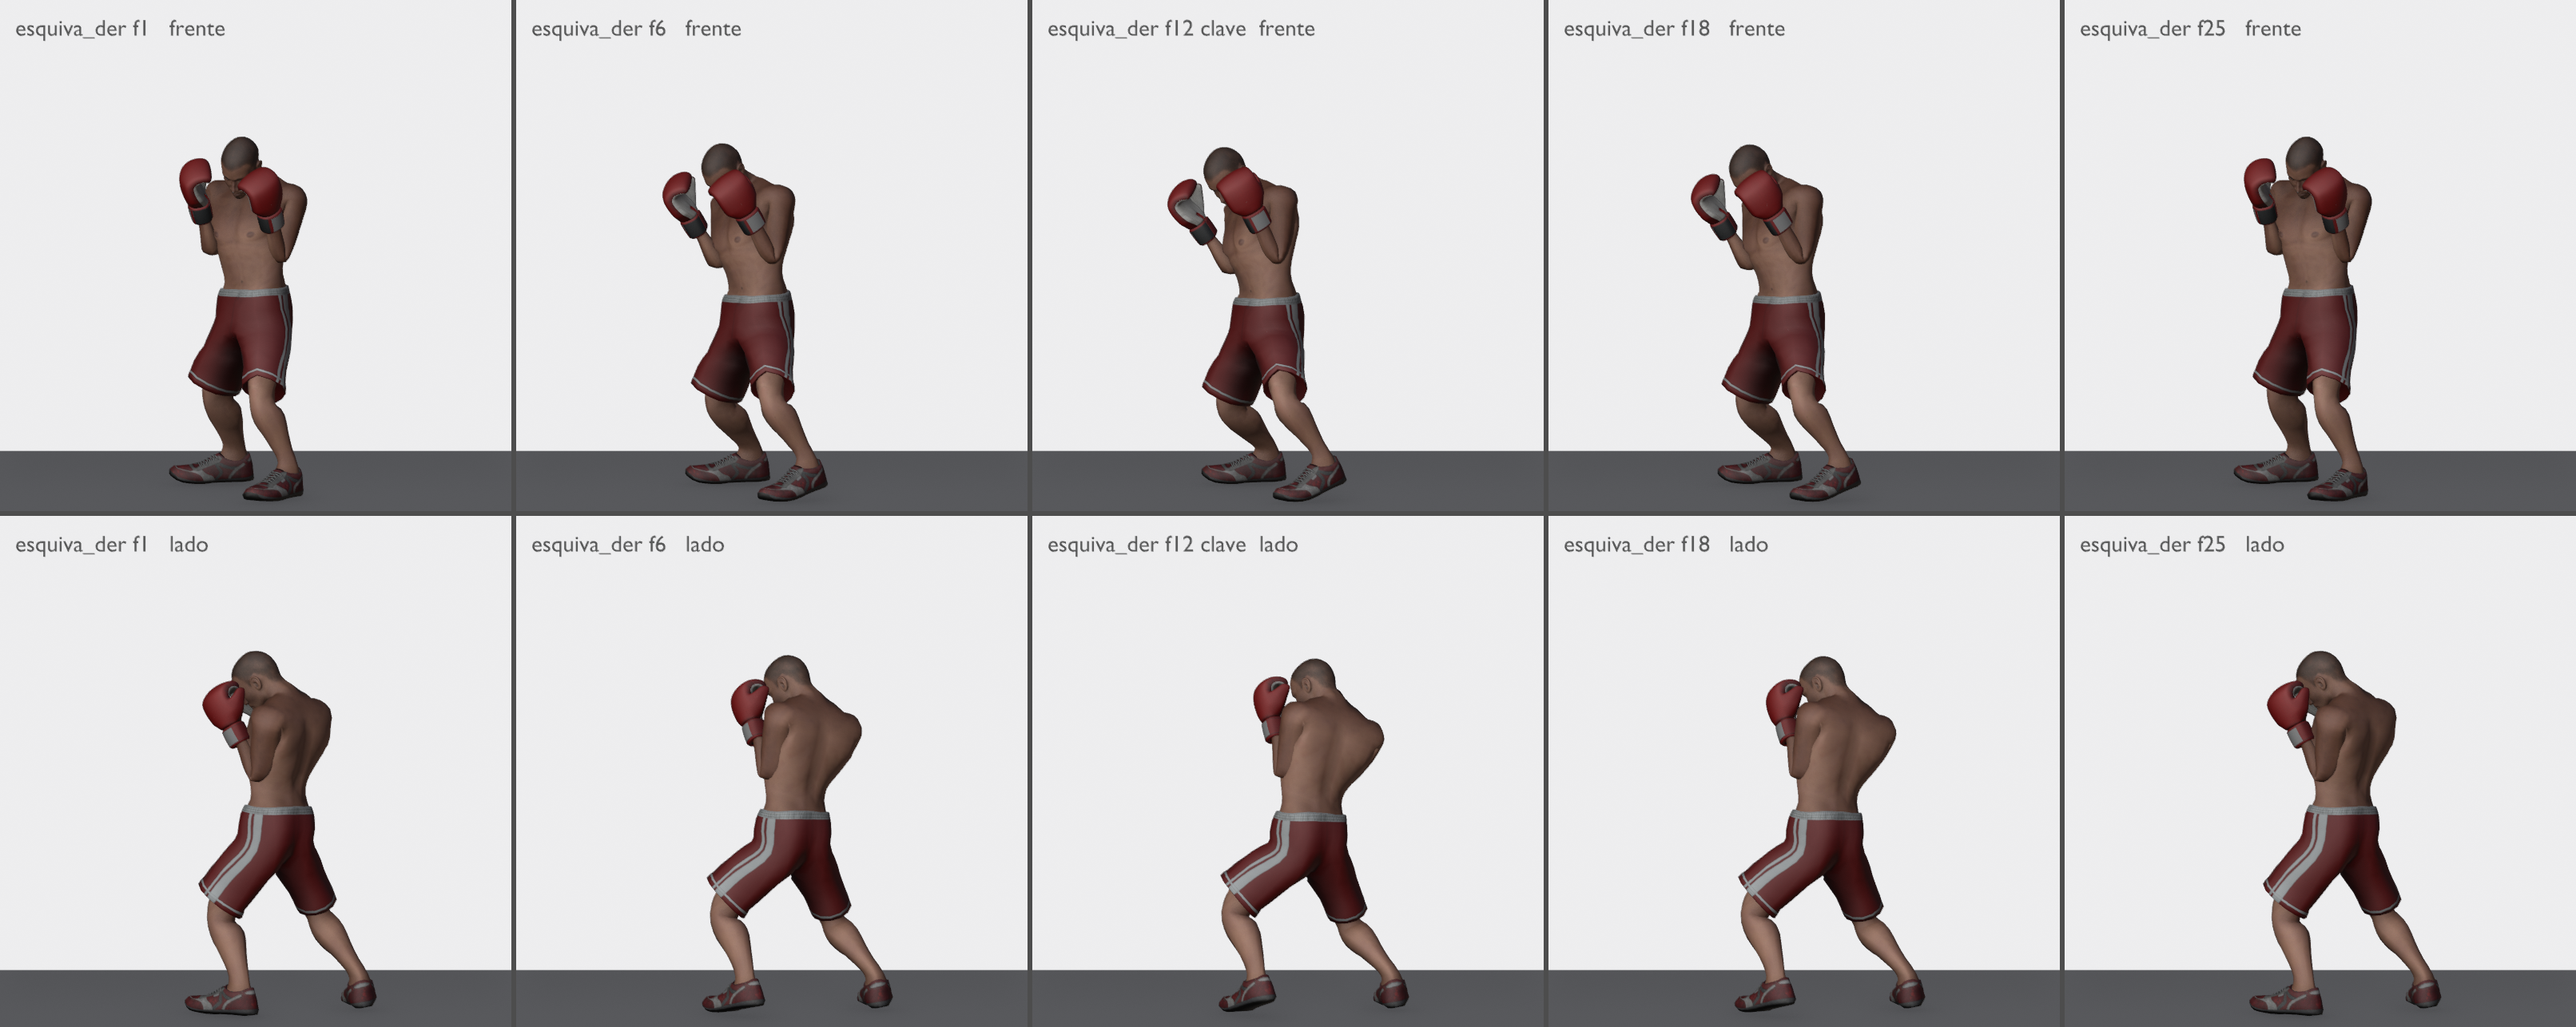
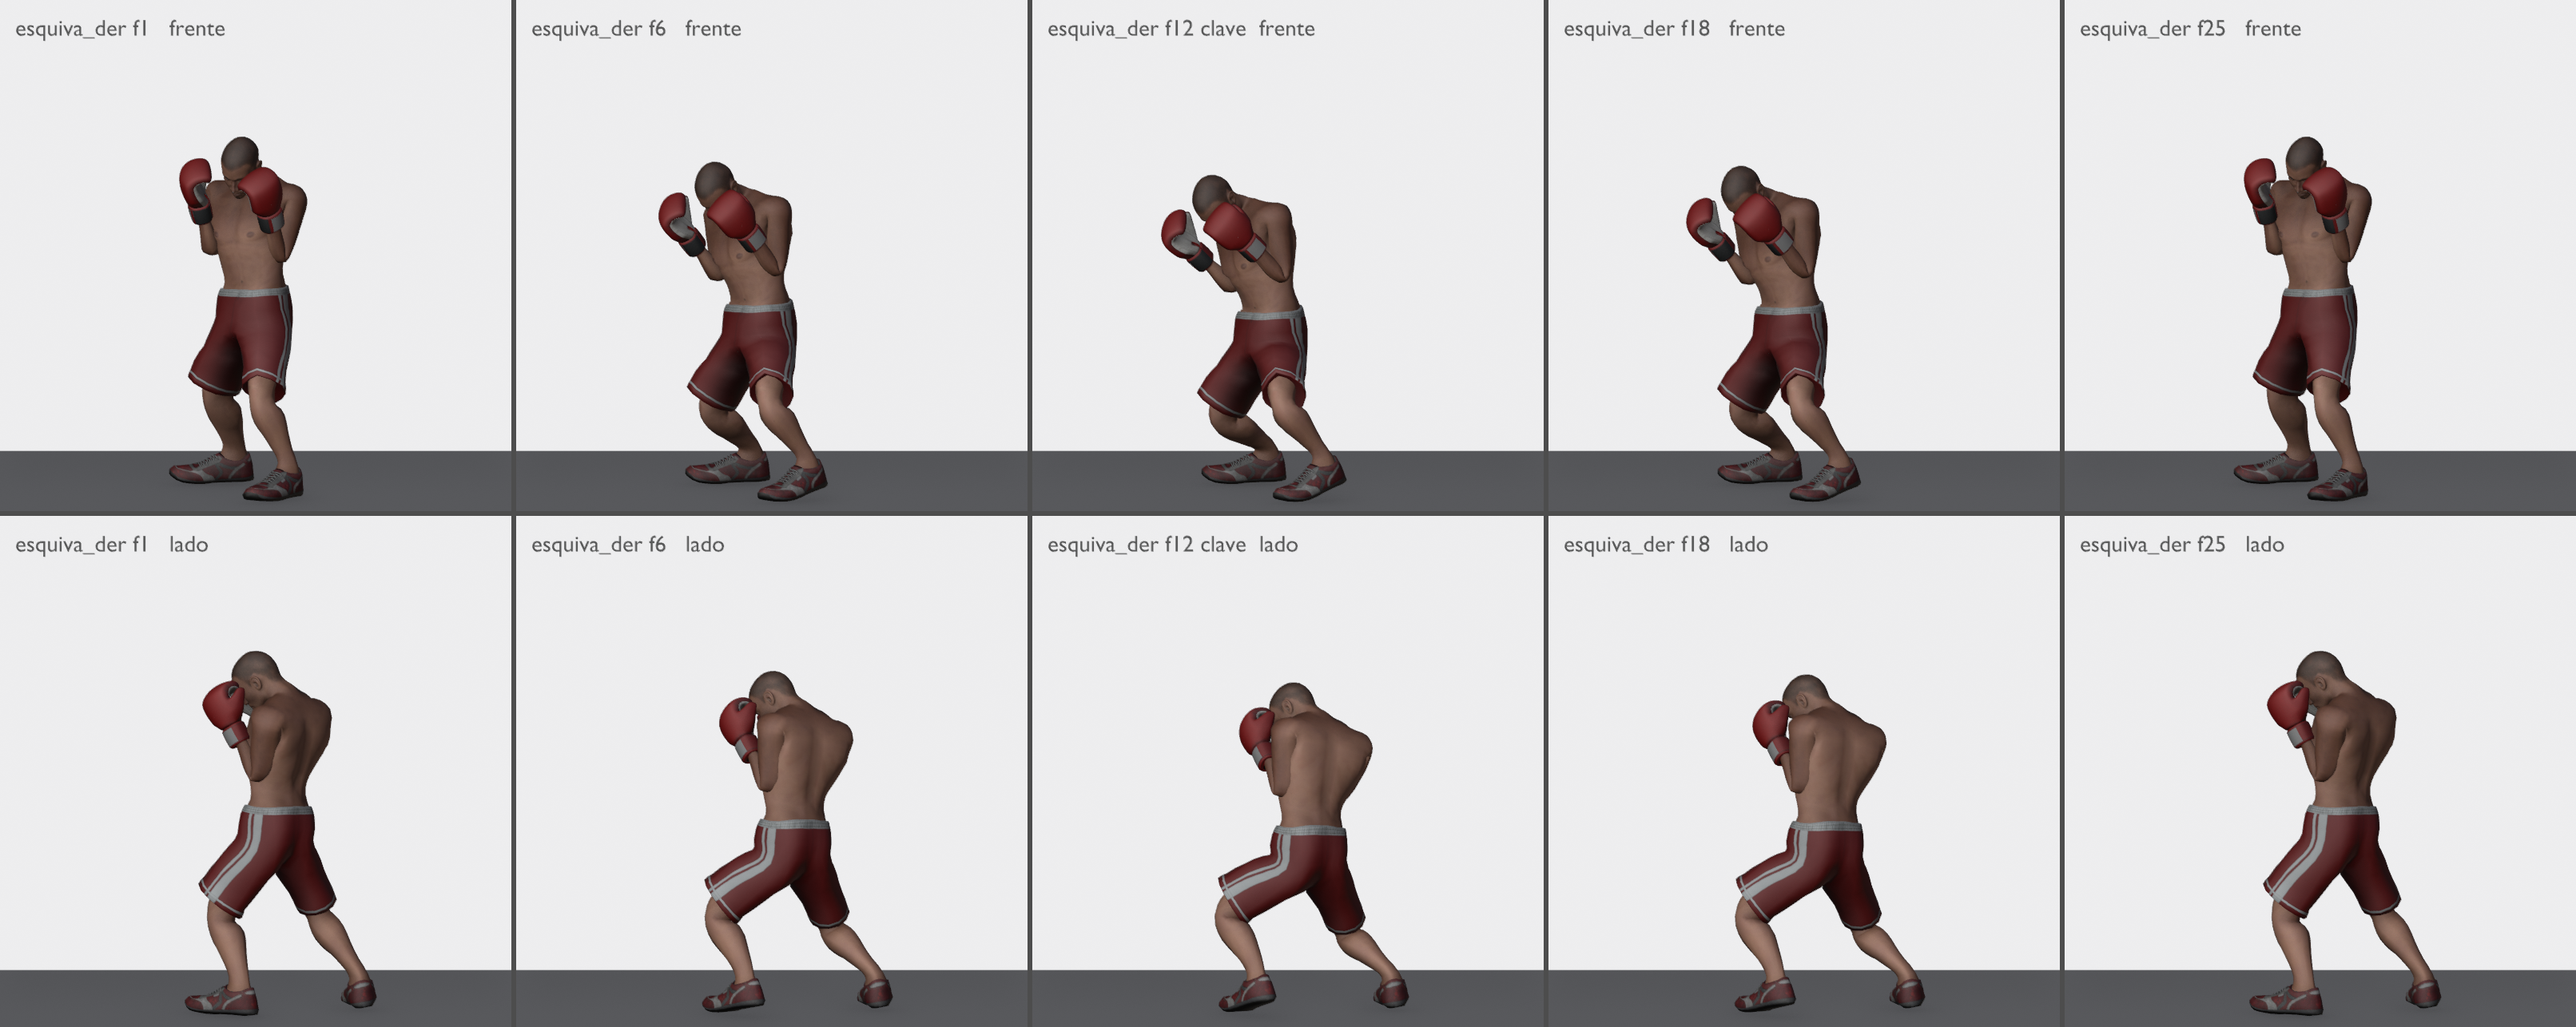
Ganchos hacia delante sin cruzar, esquivas más agachadas, flexión original y crochet trasero desde la guardia

diff --git a/scripts/fase5_b.py b/scripts/fase5_b.py
@@ -18,6 +18,8 @@ Ejecutar DESPUÉS de fase4_b.py (que rehace las _v2 y deja paso_atras_v2 desplaz
    altura del objetivo), gancho_adelantado y gancho_trasero a la cara (desde los ganchos al cuerpo,
    puño a la altura de la barbilla, codo ~90°, palma hacia uno mismo), esquiva_der / esquiva_izq,
    ballesteo, parada (mano derecha) y pivote (acaba girado 45°).
+3d. crochet_trasero_v2 empieza y acaba en la guardia (la de Mixamo empezaba a mitad del golpe):
+   transición de 8 fotogramas desde guardia_v2 al principio y de vuelta al final.
 4. Esquivas _v2: los pies resbalaban bajo una cadera fija (sin desplazamiento X/Y): parecía
    que flotaba. Ahora los pies van fijos en el suelo con IK (suela en Z=0) donde están en el
    fot. 1 de la esquiva (la postura de Mixamo va con su tronco, girado ~45° respecto a la
@@ -767,22 +769,28 @@ PALMA = {lado: q(REST[lado + "Hand"]).inverted() @ Vector((0, 0, -1)) for lado i
 HUESOS_PIERNA6 = [l + x for l in LADOS for x in ("UpLeg", "Leg", "Foot", "ToeBase")]
 
 
+PUNO_LADO = 0.08   # el puño, hacia su lado del centro de la cara
+
+
 def gancho_a_la_cara(lado, w):
     """Brazo del gancho a la cara (impacto): codo doblado ~90°, antebrazo vertical delante del pecho y
     el puño a la altura de la barbilla; palma hacia uno mismo. Se mezcla con el brazo de la _v2 (peso w)."""
     s = LADOS[lado]
     sp1 = (pb["Spine1"].head, marco("Spine1"))
     S = pb[lado + "Arm"].head
-    E = punto(*sp1, Vector((0.30, 0.12, 0.10)), s)
-    if (E - S).length > LON[lado + "Arm"] * 0.995:
-        E = S + (E - S).normalized() * LON[lado + "Arm"] * 0.995
-    dirf = (punto(*sp1, Vector((0.35, 1.0, 0.0)), s) - sp1[0]).normalized()
-    # sube (o baja) codo y muñeca para que el puño quede a la altura de la barbilla del rival
-    puno_z = (E + dirf * (LON[lado + "ForeArm"] + CENTRO_PUNO[lado].length)).z
-    E = E + Z * (OBJ_BARBILLA - puno_z)
-    if (E - S).length > LON[lado + "Arm"] * 0.995:
-        E = S + (E - S).normalized() * LON[lado + "Arm"] * 0.995
-    W = E + dirf * LON[lado + "ForeArm"]
+    # el puño va DELANTE de la propia cara, hacia el rival, a la altura de su barbilla (la cara del rival a
+    # la misma altura que la del muñeco) y PUNO_LADO hacia su lado (sin cruzar la cara). La distancia hacia
+    # delante se elige para que el codo quede doblado ~90°; el codo cae abajo y hacia su lado.
+    a_, b_ = LON[lado + "Arm"], LON[lado + "ForeArm"]
+    largo_p = CENTRO_PUNO[lado].length
+    izq_h = marco("Head")[2] * s
+    lado_h = Vector((izq_h.x, izq_h.y, 0)).normalized()
+    dirf = (Z + DELANTE * 0.35 - lado_h * 0.05).normalized()
+    cab = centro_cabeza()
+    base = Vector((cab.x, cab.y, OBJ_BARBILLA)) + lado_h * PUNO_LADO - dirf * largo_p
+    d90 = math.sqrt(a_ * a_ + b_ * b_)
+    W = min((base + DELANTE * (k / 100) for k in range(5, 70)), key=lambda w_: abs((w_ - S).length - d90))
+    E = S + (DELANTE * 0.4 + lado_h * 0.6 - Z * 0.6)     # polo del codo: abajo y hacia su lado
     T = pb[lado + "Hand"].head.lerp(W, w)
     polo = pb[lado + "ForeArm"].head.lerp(E, w)
     hq, _ = resolver_brazo(lado, T, polo, muneca=True)
@@ -790,7 +798,7 @@ def gancho_a_la_cara(lado, w):
     MH = pb[lado + "Hand"].matrix
     ej = eje_y(MH)
     palma = q(MH) @ PALMA[lado]
-    quiero = -sp1[1][0]
+    quiero = -DELANTE   # la palma mira hacia atrás, hacia uno mismo
     a_ = palma - ej * palma.dot(ej)
     b_ = quiero - ej * quiero.dot(ej)
     if a_.length > 1e-4 and b_.length > 1e-4:
@@ -862,7 +870,10 @@ def derivar(origen, nombre, lado_golpe, objetivo=None, paso=0.10, gancho=False):
             flex = math.degrees((pb[lado_golpe + "ForeArm"].head - pb[lado_golpe + "Arm"].head).angle(
                 pb[lado_golpe + "Hand"].head - pb[lado_golpe + "ForeArm"].head))
             otra = "Right" if lado_golpe == "Left" else "Left"
+            sg = LADOS[lado_golpe]
             medida = dict(hombro=pb[lado_golpe + "Arm"].head.z, puno=puno.z, flex=flex,
+                          lat_puno=(puno - centro_cabeza()).dot(marco("Head")[2] * sg),
+                          lat_codo=(pb[lado_golpe + "ForeArm"].head - pb["Spine2"].head).dot(marco("Spine2")[2] * sg),
                           otra=hueco(guante_mundo(otra, pb[otra + "ForeArm"].matrix, pb[otra + "Hand"].matrix),
                                      pb["Head"].matrix))
     for fc in a.fcurves:
@@ -874,7 +885,9 @@ def derivar(origen, nombre, lado_golpe, objetivo=None, paso=0.10, gancho=False):
         txt += f", objetivo {objetivo:.2f} m"
     txt += f" | la otra mano a {medida['otra'] * 100:.1f} cm de la cara"
     if gancho:
-        txt += (f" | codo doblado {medida['flex']:.0f}° | barbilla del rival a {OBJ_BARBILLA:.2f} m"
+        txt += (f" | codo doblado {medida['flex']:.0f}°, codo {medida['lat_codo'] * 100:+.0f} cm hacia su lado del eje del"
+                f" pecho, puño {medida['lat_puno'] * 100:+.0f} cm hacia su lado del centro de la cara (+ = sin cruzar)"
+                f" | barbilla del rival a {OBJ_BARBILLA:.2f} m"
                 f" | aire guante-cabeza mín. {aire * 100:.1f} cm")
     p(txt)
 
@@ -906,7 +919,7 @@ for nombre, s in (("esquiva_der", -1.0), ("esquiva_izq", 1.0)):
     escala = 1.0
     for intento in range(3):
         pose = dict(sx=0.07 * s * escala, lado=14.0 * s * escala, torsion=15.0 * s * escala, giro=8.0 * s * escala,
-                    cuello=-8.0 * s * escala, baja=0.04, flex=4.0)
+                    cuello=-8.0 * s * escala, baja=0.10, flex=12.0, abdomen=6.0)   # más agachada
 
         def pies_esq(f, s=s, opuesto=opuesto):
             k = rampa(f, [(1, 0), (9, 1), (15, 1), (N_ESQ, 0)])
@@ -1055,6 +1068,78 @@ for nombre, (pie, sentido, ida, vuelta) in ESQUIVAS.items():
       f"     suela de los pies apoyados: Z {min(zs_apoyo) * 100:+.2f}/{max(zs_apoyo) * 100:+.2f} cm | cadera bajada para llegar:"
       f" {bajada * 100:.1f} cm máx. | tobillo fuera del objetivo: {desliz * 1000:.1f} mm | fot.1 y último vs guardia_v2:"
       f" {ini:.0f} / {fin:.0f} mm (el tronco es el de Mixamo)")
+
+# ---------------------------------------------------------------- 5b. crochet_trasero_v2 desde la guardia
+# La animación de Mixamo empieza a mitad del golpe (el brazo ya va suelto en el fot. 1). Se retrasa
+# P fotogramas y se añade una transición suave desde guardia_v2 (fot. 1) al principio y de vuelta a
+# ella al final; las piernas con IK (los pies van de su sitio en la guardia al de la animación).
+P_TRANS = 8
+
+
+def pose_local():
+    return {n: (b.location.copy(), b.rotation_quaternion.copy()) for n, b in pb.items()}
+
+
+def pies_suelo():
+    sf = suelas()
+    return {l: pb[l + "Foot"].matrix.translation - Vector((0, 0, sf[l])) for l in LADOS}
+
+
+def desde_guardia(nombre):
+    a = bpy.data.actions[nombre]
+    if a.get("desde_guardia"):
+        return None
+    poner(nombre)
+    f0, f1 = (int(x) for x in a.frame_range)
+    esc.frame_set(f0)
+    antes = max((b.head - M0[n].translation).length for n, b in pb.items())
+    for fc in a.fcurves:
+        for k in fc.keyframe_points:
+            k.co.x += P_TRANS
+            k.handle_left.x += P_TRANS
+            k.handle_right.x += P_TRANS
+        fc.update()
+    esc.frame_set(f0 + P_TRANS)
+    ini, pies_ini = pose_local(), pies_suelo()
+    esc.frame_set(f1 + P_TRANS)
+    fin, pies_fin = pose_local(), pies_suelo()
+    guard = {n: (BASE[n][0], BASE[n][1]) for n in pb}
+    tramos = [(f, (f - f0) / P_TRANS, guard, ini, PIE0, pies_ini) for f in range(f0, f0 + P_TRANS)]
+    tramos += [(f, (f - f1 - P_TRANS) / P_TRANS, fin, guard, pies_fin, PIE0)
+               for f in range(f1 + P_TRANS + 1, f1 + 2 * P_TRANS + 1)]
+    for f, t, A, B, pa, pb_ in tramos:
+        t = suave(t)
+        esc.frame_set(f)
+        for n, b in pb.items():
+            qa, qb = A[n][1].copy(), B[n][1]
+            if qa.dot(qb) < 0:
+                qa.negate()
+            b.location = A[n][0].lerp(B[n][0], t)
+            b.rotation_quaternion = qa.slerp(qb, t)
+        upd()
+        for lado in LADOS:
+            ik_pierna(lado, pa[lado].lerp(pb_[lado], t))
+        for n, b in pb.items():
+            b.keyframe_insert("rotation_quaternion", frame=f, group=b.name)
+        pb["Hips"].keyframe_insert("location", frame=f, group=pb["Hips"].name)
+    for fc in a.fcurves:
+        fc.update()
+    a["desde_guardia"] = True
+    poner(nombre)
+    f0, f1 = (int(x) for x in a.frame_range)
+    res = []
+    for f in (f0, f1):
+        esc.frame_set(f)
+        res.append(max((b.head - M0[n].translation).length for n, b in pb.items()))
+    return antes, res, f1
+
+
+p("\n=== crochet_trasero_v2: empieza y acaba en la guardia ===")
+r_cr = desde_guardia("crochet_trasero_v2")
+if r_cr:
+    p(f"  fot. 1 frente a guardia_v2: antes {r_cr[0] * 100:.0f} cm (empezaba a mitad del golpe); ahora fot. 1 y último"
+      f" {r_cr[1][0] * 100:.1f} / {r_cr[1][1] * 100:.1f} cm (pies a Z=0). {P_TRANS} fot. de transición al principio y al"
+      f" final: {r_cr[2]} fot. en total")
 
 # ---------------------------------------------------------------- 6. paso_atras_v2 (lo deja fase4_b.py)
 a = poner("paso_atras_v2")

diff --git a/scripts/fase4_b.py b/scripts/fase4_b.py
@@ -50,8 +50,9 @@ GOLPES = {"jab", "recto", "crochet_adelantado", "crochet_trasero", "crochet_tras
           "gancho_adelantado_cuerpo", "gancho_trasero_cuerpo"}
 SUELTA_LIBRE = {"bloqueo"}
 DESPLAZA = {"paso_atras"}          # acaban desplazadas: la cadera no vuelve al sitio
-# sin _v2: la reacción a un golpe de Mixamo, la rueda antigua y las acciones hechas a mano (fase5_b.py)
-SIN_V2 = {"bloqueo", "reaccion_golpe", "rueda", "jab_cuerpo", "recto_cuerpo", "crochet_adelantado_cuerpo", "gancho_adelantado", "gancho_trasero", "esquiva_der", "esquiva_izq", "ballesteo", "parada", "pivote"}
+# sin _v2: la reacción a un golpe de Mixamo, la rueda antigua, la flexión (David prefiere la original:
+# la _v2 separa demasiado las manos) y las acciones hechas a mano (fase5_b.py)
+SIN_V2 = {"bloqueo", "reaccion_golpe", "rueda", "flexion", "jab_cuerpo", "recto_cuerpo", "crochet_adelantado_cuerpo", "gancho_adelantado", "gancho_trasero", "esquiva_der", "esquiva_izq", "ballesteo", "parada", "pivote"}
 
 out = []
 

diff --git a/README.md b/README.md
@@ -94,17 +94,21 @@ python scripts/comparar_choques.py                               # tablas de cho
     recto de Mixamo ya se inclinan y golpean bajo (puño a 0,92 / 1,01 m en el impacto), por eso en 7 y 8
     el hombro ya está casi a la altura del objetivo.
   - `gancho_adelantado` (5) y `gancho_trasero` (6) a la cara: desde los ganchos al cuerpo; el brazo cambia
-    de trayectoria (rampa) hasta el puño a la altura de la barbilla del rival (1,45 m), antebrazo vertical,
-    codo doblado 70-100°, palma hacia uno mismo; las piernas cargan 5 cm antes del impacto y empujan.
-    Pendiente: en el impacto el puño roza la otra mano (2-4 cm). Si llega un gancho de Mixamo, lo sustituye.
-  - `esquiva_der` / `esquiva_izq`: la cabeza se aparta 22-23 cm girando e inclinando el tronco, rodillas
-    un poco flexionadas; el pie contrario pivota (20°, talón arriba 15°) sin moverse; vuelve al centro.
+    de trayectoria (rampa) y golpea HACIA DELANTE: el puño delante de la propia cara, a la altura de la
+    barbilla de un rival de su misma altura (1,45 m) y hacia su lado, sin cruzar la cara; codo doblado
+    ~80-90° y fuera (no pasa el eje del cuerpo); palma hacia uno mismo; las piernas cargan 5 cm antes del
+    impacto y empujan. Si llega un gancho de Mixamo, lo sustituye.
+  - `esquiva_der` / `esquiva_izq`: la cabeza se aparta 21-24 cm girando e inclinando el tronco y baja
+    17 cm (rodillas y tronco flexionados: queda agachada); el pie contrario pivota (20°, talón arriba 15°) sin moverse; vuelve al centro.
   - `ballesteo`: tronco bien atrás (la cabeza retrocede 35 cm) sin paso, barbilla abajo, manos arriba; solo el pie
     de atrás retrocede 10 cm y vuelve, el de delante fijo.
   - `parada`: la mano derecha da un toque corto hacia dentro y abajo (16 cm desde la guardia, menos de un
     palmo) y la cabeza se aparta un poco a su derecha.
   - `pivote`: el pie de delante da un paso de 15 cm en diagonal hacia su lado y el muñeco gira 45° hacia su
     derecha sobre la punta de ese pie, con el de atrás en arco; acaba girado (no vuelve).
+- **Flexión:** se usa la original (`flexion`); la `_v2` separaba demasiado las manos y ya no se genera.
+- **crochet_trasero_v2:** la de Mixamo empezaba a mitad del golpe (44 cm lejos de la guardia en el fot. 1);
+  ahora tiene 8 fotogramas de transición desde guardia_v2 al principio y de vuelta a ella al final.
 - **Esquivas `_v2`:** los pies resbalaban bajo una cadera fija (parecía que flotaba). Ahora los pies
   están fijos en el suelo con IK (suela en Z=0) y dan un paso real de 22 cm: el derecho hacia atrás
   (retrocediendo) o el izquierdo hacia delante (avanzando), y vuelven al final. La postura de partida
@@ -145,7 +149,7 @@ blender.exe --background --python scripts/comparativa_render.py  # comparativa_v
   `Guante_Right` (el guante va soldado al brazo: se corta bajo el puño de velcro, que tapa el
   corte). Un solo material con textura (sin el logo de la marca).
 - Acciones originales (copiadas de la v2, traslación escalada por la altura de la cadera; `bloqueo`
-  pasa a llamarse `reaccion_golpe` y `rueda` se sustituye), 13 versiones `_v2` de la Fase 4 y 7 acciones
+  pasa a llamarse `reaccion_golpe` y `rueda` se sustituye), 12 versiones `_v2` de la Fase 4 (sin `flexion_v2`) y 7 acciones
   hechas a mano en la Fase 5 (5 bloqueos, 2 ruedas, 3 pasos y las 10 acciones que faltaban para la app). Todas con Fake User.
 - Pies: rotación rehecha para que giren respecto a su reposo igual que en la v2 (la copia
   directa los dejaba hasta 15° girados) y cadera corregida en cada fotograma para que la
@@ -192,6 +196,9 @@ blender.exe --background --python scripts/comparativa_render.py  # comparativa_v
   se adelanta 12 cm (paso en los fot. 1-7 y vuelta en los 31-37), rodillas flexionadas (la cadera
   baja hasta 15 cm en el fondo de la U; en la flexión, 18), el abdomen se contrae (el torso baja) y los
   guantes van 3,5 cm más arriba que en la guardia para cubrir los golpes altos.
+- **Flexión:** se usa la original (`flexion`); la `_v2` separaba demasiado las manos y ya no se genera.
+- **crochet_trasero_v2:** la de Mixamo empezaba a mitad del golpe (44 cm lejos de la guardia en el fot. 1);
+  ahora tiene 8 fotogramas de transición desde guardia_v2 al principio y de vuelta a ella al final.
 - **Esquivas `_v2`:** los pies resbalaban bajo una cadera fija (parecía que flotaba). Ahora los pies
   están fijos en el suelo con IK (suela en Z=0) y dan un paso real de 22 cm: el derecho hacia atrás
   (retrocediendo) o el izquierdo hacia delante (avanzando), y vuelven al final. La postura de partida
